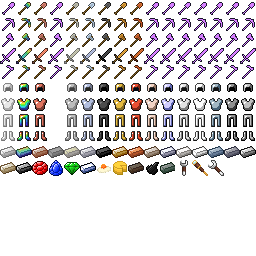
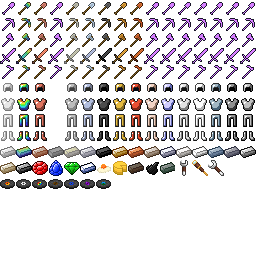
Added records

Changed region(s): [[0.0, 0.6875, 0.4375, 0.75]]

diff --git a/src/minecraft/net/minecraft/src/nfc/SoundManagerNFC.java b/src/minecraft/net/minecraft/src/nfc/SoundManagerNFC.java
@@ -7,10 +7,21 @@ import net.minecraft.src.SoundPoolEntry;
 
 public class SoundManagerNFC {
 
-	public final static String wrench = "wrench.ogg";
+	public final static String WRENCH = "wrench.ogg";
+	public final static String CHANT = "chant.ogg";
+	public final static String DROOPY = "droopy likes your face.ogg";
+	public final static String EMOTION = "i lack an emotion.ogg";
+	public final static String BERLIN = "in berlin people act differently.ogg";
+	public final static String PLEASE = "please do.ogg";
+	public final static String FRONTIER = "snuppeluppen - new frontier.ogg";
+	public final static String TWENTYSIX = "26.ogg";
 	
 	public SoundManager mcSoundManager;
 	public SoundPool soundPool;
+	public SoundPool streamingPool;
+	
+	private Utils.EasyField<SoundPool> soundPoolField = new Utils.EasyField<SoundPool>(SoundManager.class, "soundPoolSounds", "b");
+	private Utils.EasyField<SoundPool> streamingPoolField = new Utils.EasyField<SoundPool>(SoundManager.class, "soundPoolStreaming", "c");
 	
 	public SoundManagerNFC() {
 		this.init();
@@ -18,33 +29,65 @@ public class SoundManagerNFC {
 	
 	public void init() {
 		this.mcSoundManager = Utils.mc.sndManager;
-		this.soundPool = soundPoolField.get(mcSoundManager);
+		this.soundPool = this.soundPoolField.get(this.mcSoundManager);
+		this.streamingPool = this.streamingPoolField.get(this.mcSoundManager);
+		this.streamingPool.field_1657_b = false;
 		
-		this.addSound(wrench);
+		this.addSound(WRENCH);
+		
+		this.addRecord(CHANT);
+		this.addRecord(DROOPY);
+		this.addRecord(EMOTION);
+		this.addRecord(BERLIN);
+		this.addRecord(PLEASE);
+		this.addRecord(FRONTIER);
+		this.addRecord(TWENTYSIX);
 	}
 	
-	private Utils.EasyField<SoundPool> soundPoolField = new Utils.EasyField<SoundPool>(SoundManager.class, "soundPoolSounds", "b");
-	
-	public void addSound(String s) 
+	public void addAudio(String audioName, SoundPool pool, String resourcePath) 
 	{
-		String resource = new StringBuilder().append("sound/").append(s).toString();
-		if(Utils.resourceExists(resource))
+		if(Utils.resourceExists(resourcePath))
 		{
-			SoundPoolEntry entry = soundPool.addSound(new StringBuilder().append("nfc/").append(s).toString(), new File(""));
-			entry.soundUrl = Utils.getResourceURL(resource);
+			SoundPoolEntry entry = pool.addSound(audioName, new File(""));
+			entry.soundUrl = Utils.getResourceURL(resourcePath);
 		}
 	}
 	
-	public String getSound(String s) {
-		if(this.mcSoundManager != Utils.mc.sndManager) 
+	public void addAudio(String audioName, SoundPool pool) 
+	{
+		String resourcePath = new StringBuilder().append("sound/").append(audioName).toString();
+		this.addAudio(audioName, pool, resourcePath);
+	}
+	
+	public String getAudio(String audioName, SoundPool pool) {
+		if(this.mcSoundManager != Utils.mc.sndManager)
 		{
 			this.init();
 		}
-		String soundName = new StringBuilder().append("nfc.").append(s.substring(0, s.indexOf(".")).replaceAll("/", ".")).toString();
-		if(soundPool.getRandomSoundFromSoundPool(soundName) == null) 
+		String soundName = new StringBuilder().append(audioName.substring(0, audioName.indexOf(".")).replaceAll("/", ".")).toString();
+		if(pool.getRandomSoundFromSoundPool(soundName) == null) 
 		{
 			return null;
 		}
 		return soundName;
+	}
+	
+	public void addSound(String audioName) 
+	{
+		this.addAudio(new StringBuilder().append("nfc/").append(audioName).toString(), soundPool);
+	}
+	
+	public String getSound(String audioName) {
+		return this.getAudio(new StringBuilder().append("nfc.").append(audioName).toString(), soundPool);
+	}
+	
+	public void addRecord(String audioName) 
+	{
+		String resourcePath = new StringBuilder().append("sound/records/").append(audioName).toString();
+		this.addAudio(audioName, streamingPool, resourcePath);
+	}
+	
+	public String getRecord(String audioName) {
+		return this.getAudio(audioName, streamingPool);
 	}
 }

diff --git a/src/minecraft/net/minecraft/src/nfc/Core.java b/src/minecraft/net/minecraft/src/nfc/Core.java
@@ -8,6 +8,7 @@ import net.minecraft.src.forge.MinecraftForge;
 import net.minecraft.src.forge.MinecraftForgeClient;
 import net.minecraft.src.nfc.block.*;
 import net.minecraft.src.nfc.item.ItemMulti;
+import net.minecraft.src.nfc.item.ItemRecordNFC;
 import net.minecraft.src.nfc.props.*;
 
 public class Core {
@@ -64,7 +65,13 @@ public class Core {
 		new ItemMulti(itemID + 1, COOKED_EGG, CHEESE, WRENCH, TELESCOPE).setMaxStackSize(1);
 	}
 	
-	
+	public static final ItemRecordNFC RECORD_CHANT = new ItemRecordNFC(555, SoundManagerNFC.CHANT, 181);
+	public static final ItemRecordNFC RECORD_DROOPY = new ItemRecordNFC(556, SoundManagerNFC.DROOPY, 180);
+	public static final ItemRecordNFC RECORD_EMOTION = new ItemRecordNFC(567, SoundManagerNFC.EMOTION, 177);
+	public static final ItemRecordNFC RECORD_BERLIN = new ItemRecordNFC(568, SoundManagerNFC.BERLIN, 178);
+	public static final ItemRecordNFC RECORD_PLEASE = new ItemRecordNFC(569, SoundManagerNFC.PLEASE, 179);
+	public static final ItemRecordNFC RECORD_FRONTIER = new ItemRecordNFC(570, SoundManagerNFC.FRONTIER, 182);
+	public static final ItemRecordNFC RECORD_TWENTYSIX = new ItemRecordNFC(571, SoundManagerNFC.TWENTYSIX, 176);
 
 	public static final PropsBlock.Ore ORE_COPPER = new PropsBlock.Ore(COPPER, 3.0F, 0);
 	public static final PropsBlock.Ore ORE_TIN = new PropsBlock.Ore(TIN, 3.0F, 1);

diff --git a/src/minecraft/net/minecraft/src/nfc/props/PropsItem.java b/src/minecraft/net/minecraft/src/nfc/props/PropsItem.java
@@ -55,7 +55,7 @@ public class PropsItem extends Props {
 		
 		public boolean onItemUseFirst(ItemStack ist, EntityPlayer player, World world, int x, int y, int z, int side) {
 			Block block = Block.blocksList[world.getBlockId(x, y, z)];
-			world.playSoundAtEntity(player, Core.instance.soundManager.getSound(SoundManagerNFC.wrench), 0.5F, 0.825F + (new Random().nextFloat() * 0.05f));
+			world.playSoundAtEntity(player, Core.instance.soundManager.getSound(SoundManagerNFC.WRENCH), 0.5F, 0.825F + (new Random().nextFloat() * 0.05f));
 			if(block instanceof IWrenchable) {
 				return ((IWrenchable)block).onWrenched(world, x, y, z);
 			}

diff --git a/src/minecraft/net/minecraft/src/nfc/item/ItemRecordNFC.java b/src/minecraft/net/minecraft/src/nfc/item/ItemRecordNFC.java
@@ -1,0 +1,21 @@
+package net.minecraft.src.nfc.item;
+
+import net.minecraft.src.ItemRecord;
+import net.minecraft.src.forge.ITextureProvider;
+import net.minecraft.src.nfc.Core;
+import net.minecraft.src.nfc.Utils;
+
+public class ItemRecordNFC extends ItemRecord implements ITextureProvider {
+
+	public ItemRecordNFC(int id, String s, int textureIndex) {
+		super(id, Core.instance.soundManager.getRecord(s));
+		this.setItemName("record");
+		this.setIconIndex(textureIndex);
+	}
+
+	@Override
+	public String getTextureFile() {
+		return Utils.getResource("items.png");
+	}
+
+}

diff --git a/README.md b/README.md
@@ -18,7 +18,7 @@ A WIP rewrite of Zowja's mod [New Frontier Craft](http://newfrontiercraft.net/) 
 - [x] Telescope
 - [x] Wrench
 - [x] Custom Sounds
-- [ ] Music Discs
+- [x] Music Discs
 - [ ] Oil
 - [ ] Cave Generation
 - [ ] Structure Generation
